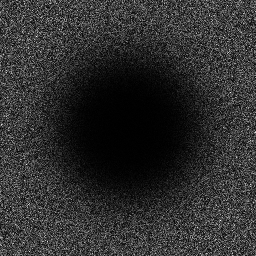
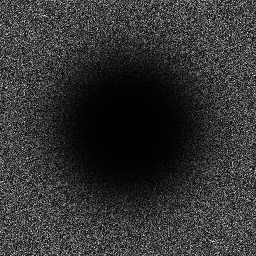
red noise & determinism

diff --git a/generatebn_hpf.cpp b/generatebn_hpf.cpp
@@ -41,7 +41,7 @@ static void NormalizeHistogram(std::vector<float>& image, size_t width)
     }
 }
 
-void GenerateBN_HPF(std::vector<uint8_t>& blueNoise, size_t width, size_t numPasses, float sigma)
+void GenerateBN_HPF(std::vector<uint8_t>& blueNoise, size_t width, size_t numPasses, float sigma, bool makeRed)
 {
     // first make white noise
     std::vector<uint8_t> pixels;
@@ -55,10 +55,20 @@ void GenerateBN_HPF(std::vector<uint8_t>& blueNoise, size_t width, size_t numPas
     std::vector<float> pixelsFloatLowPassed;
     for (size_t index = 0; index < numPasses; ++index)
     {
-        // a blur is a low pass filter, and a high pass filter is the signal minus the low pass filtered signa.
         GaussianBlur(pixelsFloat, pixelsFloatLowPassed, width, sigma);
-        for (size_t pixelIndex = 0, pixelCount = pixelsFloat.size(); pixelIndex < pixelCount; ++pixelIndex)
-            pixelsFloat[pixelIndex] -= pixelsFloatLowPassed[pixelIndex];
+
+        if (!makeRed)
+        {
+            // a blur is a low pass filter, and a high pass filter is the signal minus the low pass filtered signa.
+            for (size_t pixelIndex = 0, pixelCount = pixelsFloat.size(); pixelIndex < pixelCount; ++pixelIndex)
+                pixelsFloat[pixelIndex] -= pixelsFloatLowPassed[pixelIndex];
+        }
+        else
+        {
+            // to make red noise, just use the low pass filter data
+            for (size_t pixelIndex = 0, pixelCount = pixelsFloat.size(); pixelIndex < pixelCount; ++pixelIndex)
+                pixelsFloat[pixelIndex] = pixelsFloatLowPassed[pixelIndex];
+        }
 
         // Do a histogram fixup
         NormalizeHistogram(pixelsFloat, width);

diff --git a/main.cpp b/main.cpp
@@ -39,6 +39,17 @@ int main(int argc, char** argv)
         stbi_write_png("out/blueHPF.DFT.png", int(c_width), int(c_width), 1, blueNoiseDFT.data(), 0);
     }
 
+    // generate red noise by repeated low pass filtering white noise and fixing up the histogram
+    {
+        std::vector<uint8_t> redNoise;
+        GenerateBN_HPF(redNoise, c_width, 5, 1.0f, true);
+        stbi_write_png("out/redHPF.png", int(c_width), int(c_width), 1, redNoise.data(), 0);
+        WriteHistogram(redNoise, "out/redHPF.histogram.csv");
+        std::vector<uint8_t> redNoiseDFT;
+        DFT(redNoise, redNoiseDFT, c_width);
+        stbi_write_png("out/redHPF.DFT.png", int(c_width), int(c_width), 1, redNoiseDFT.data(), 0);
+    }
+
     return 0;
 }
 

diff --git a/whitenoise.h b/whitenoise.h
@@ -4,9 +4,12 @@
 
 inline std::mt19937& RNG()
 {
+
     static std::random_device rd;
-    static std::seed_seq fullSeed{ rd(), rd(), rd(), rd(), rd(), rd(), rd(), rd() };
+    //static std::seed_seq fullSeed{ rd(), rd(), rd(), rd(), rd(), rd(), rd(), rd() };
+    static std::seed_seq fullSeed{ unsigned(783104853), unsigned(4213684301), unsigned(3526061164), unsigned(614346169), unsigned(478811579), unsigned(2044310268), unsigned(3671768129), unsigned(206439072) };
     static std::mt19937 rng(fullSeed);
+
     return rng;
 }
 

diff --git a/generatebn_hpf.h b/generatebn_hpf.h
@@ -3,4 +3,4 @@
 #include <vector>
 
 // generates blue noise by repeatedly high pass filtering white noise and fixing up the histogram
-void GenerateBN_HPF(std::vector<uint8_t>& blueNoise, size_t width, size_t numPasses = 5, float sigma = 1.0f);
+void GenerateBN_HPF(std::vector<uint8_t>& blueNoise, size_t width, size_t numPasses = 5, float sigma = 1.0f, bool makeRed = false);
